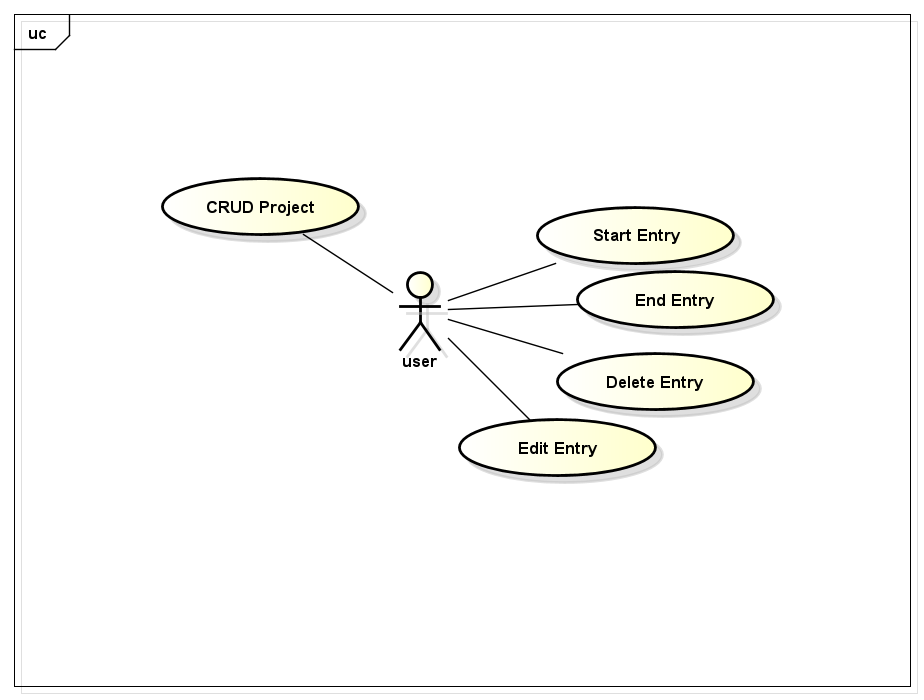
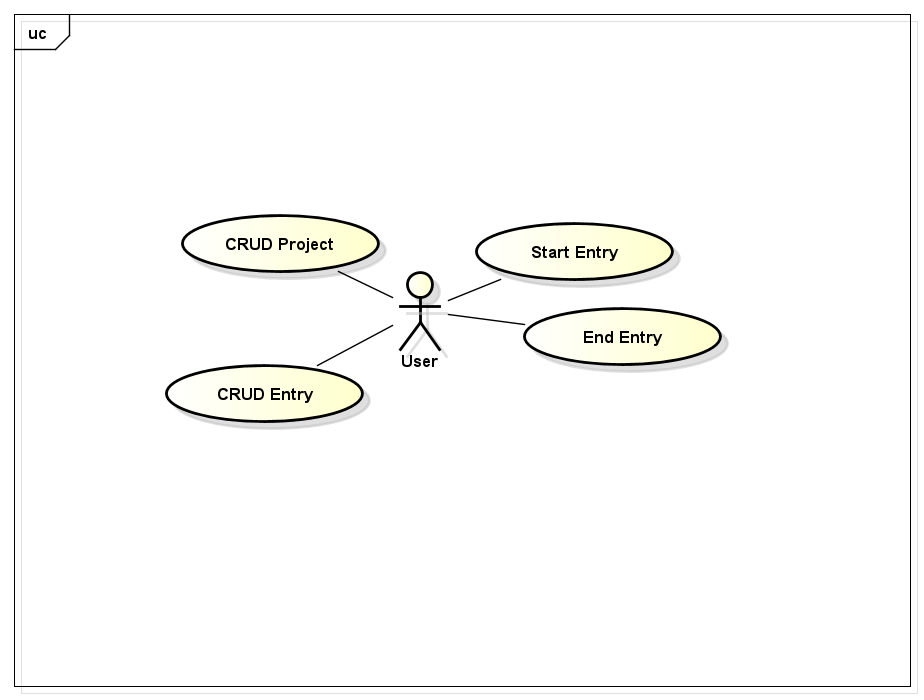
update diagrams and readme

diff --git a/README.md b/README.md
@@ -1,7 +1,7 @@
 # time-management-api
 ### A case study of a personal time management app.
 
-Estudo de caso de um aplicativo de gerenciamento de tempo pessoal.
+this app lets you can manage the time you work on projects by clocking in and out.
 
 ## Goals
 
